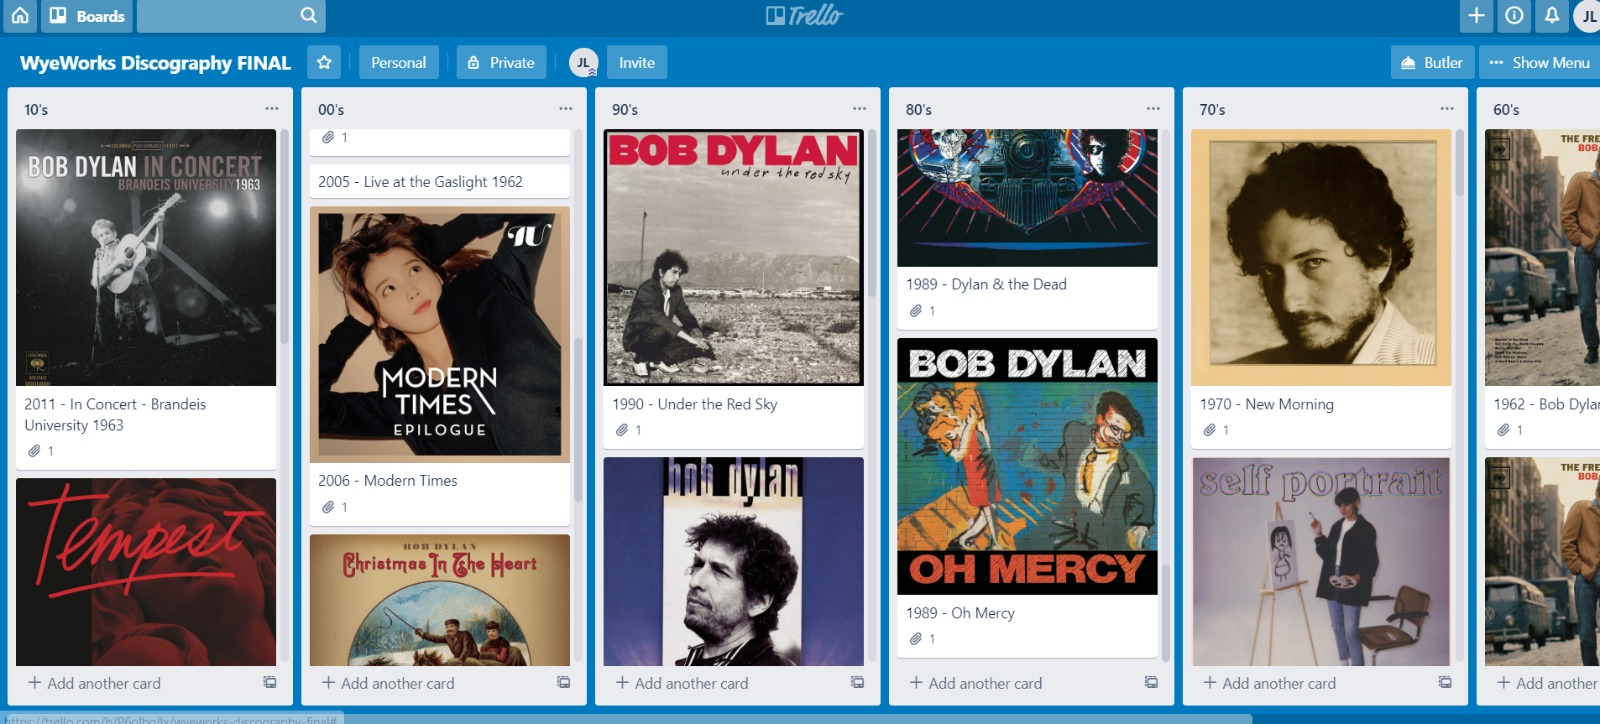
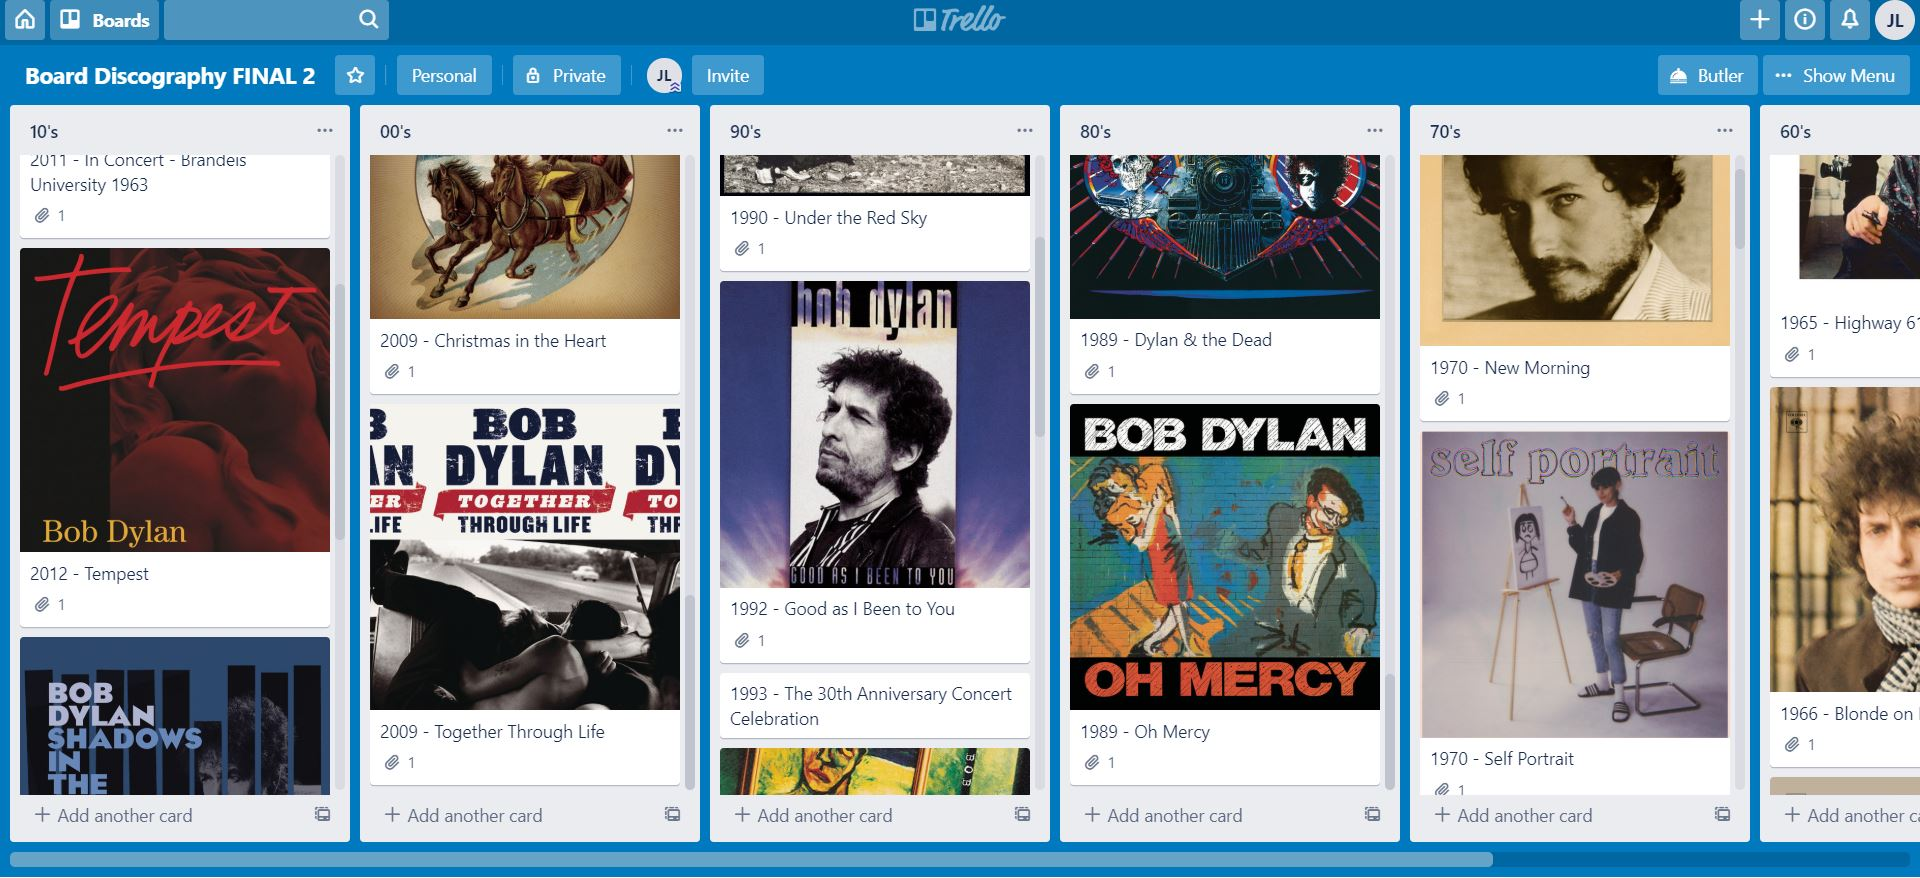
Generic Name

diff --git a/index.js b/index.js
@@ -11,7 +11,7 @@ dotenv.config();
 const start = async () => {
     const discography = utils.readDiscography(process.env.DISCOGRAPHY_PATH);
     let token = await spotify.getToken();
-    const trelloBoardId = await trello.createBoard('WyeWorks Discography FINAL');
+    const trelloBoardId = await trello.createBoard('Board Discography FINAL');
     let currentDecade = -1, currentList;
     for (let i = 0; i < discography.length; i++) {
         let album = discography[i];
